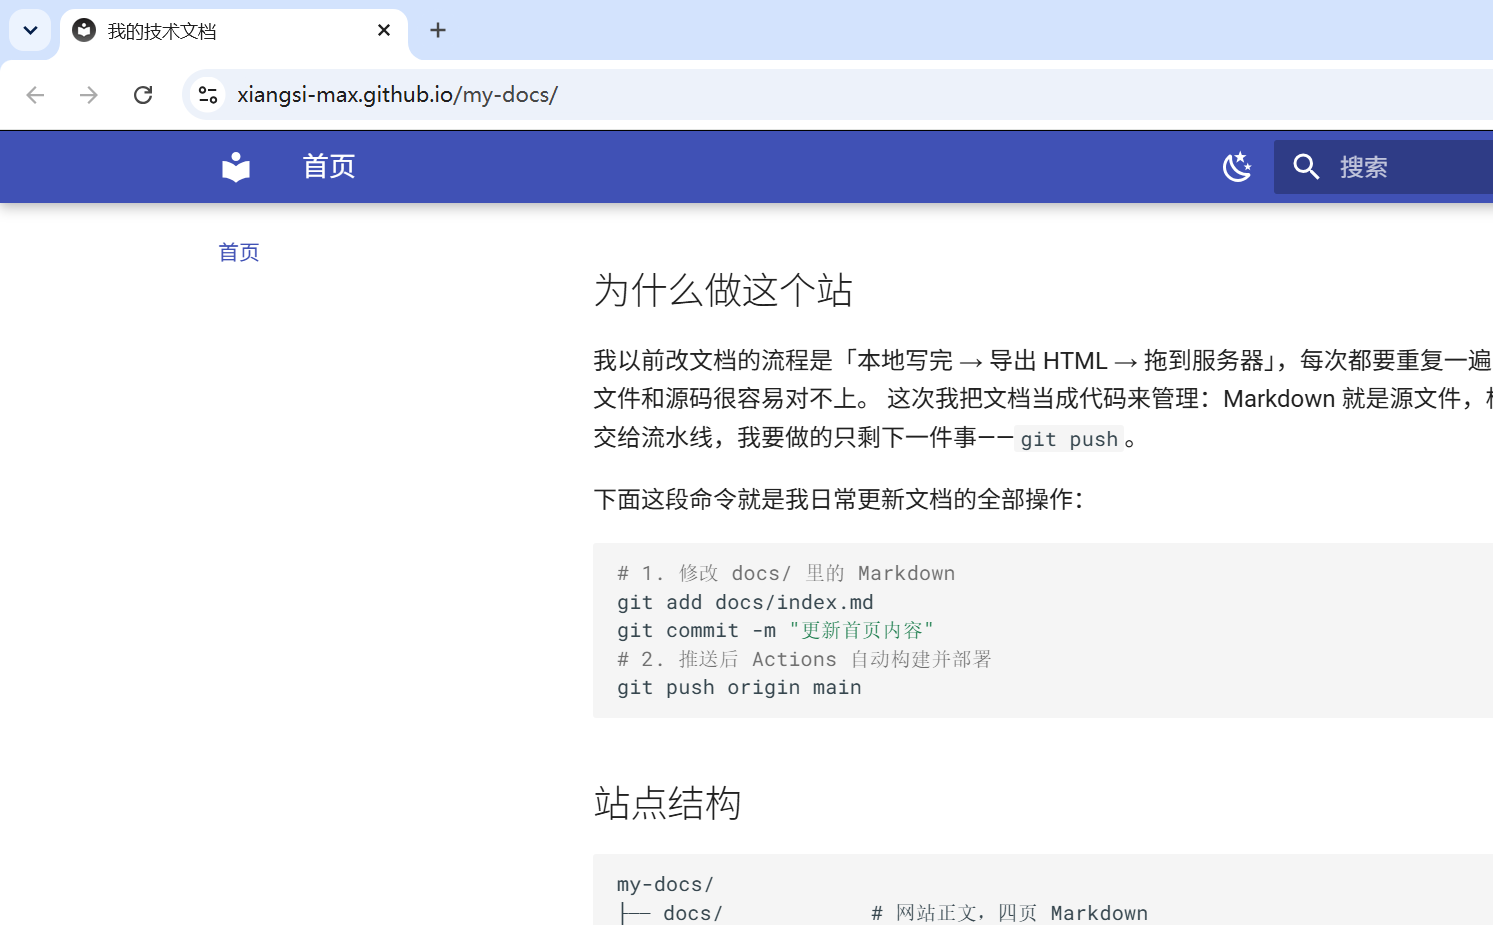
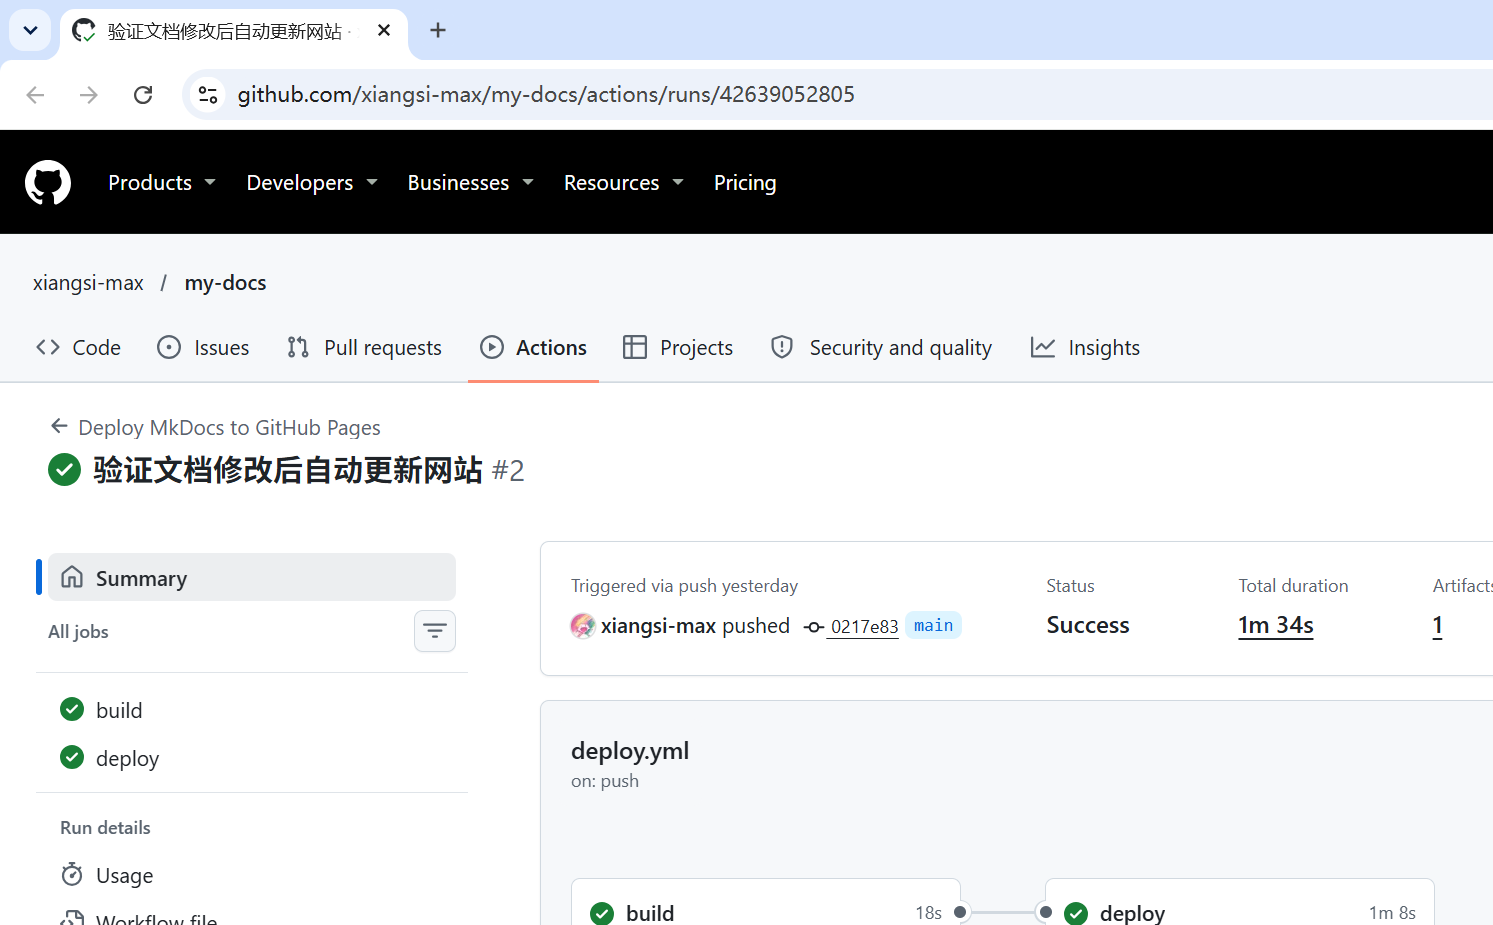
修正 2.7 截图与 2.10 数据

diff --git a/report/README.md b/report/README.md
@@ -217,7 +217,7 @@ push 后约 2 秒就开始跑了（14:53:13 创建，14:53:15 起 build），说
 | --- | --- | --- |
 | 所有示例账号、仓库地址均已替换 | `docs/api.md` 的 curl 示例还是 `https://example.com/...` | 换成 `https://xiangsi-max.github.io/my-docs/api/docs` |
 | 四页均有本人撰写的介绍与体会 | `guide.md`、`api.md` 全文一个"我"字都没有，是纯教程口吻 | 两页各补一节第一人称内容（见下） |
-| 四页两两互链 | 已在上一次推送补上 | — |
+| 仓库信息与报告描述一致 | 报告 2.1 节说"右侧 About 里填了站点地址"，但 `homepage` 字段实际是**空的** | 用 `gh api -X PATCH` 补上站点地址，同时把 2.1 节的描述改成与截图一致 |
 
 第一处是硬伤：`example.com` 是 RFC 2606 保留的示例域名，留着等于告诉老师"这段是抄来的模板"。
 
@@ -226,13 +226,15 @@ push 后约 2 秒就开始跑了（14:53:13 创建，14:53:15 起 build），说
 - `guide.md` 加了「我踩过的两个坑」：一是 Windows 虚拟环境是 `.venv/Scripts/` 而不是 `.venv/bin/`，干脆不激活直接调解释器；二是 `site_url` 带子路径导致预览时 `/` 返回 302、必须访问 `/my-docs/` 才有页面。这两条都是我在本次实践里真实撞上的，前面第 3 章也记了。
 - `api.md` 加了「我写这一页的思路」：为什么按"参数表 → 请求示例 → 返回示例 → 错误码"排列，以及错误码为什么必须给出处理建议而不只是含义。
 
+第三处是我的疏漏：写报告时凭印象写"About 里填了站点地址"，实际根本没填，`gh api repos/xiangsi-max/my-docs` 返回的 `homepage` 是空的。**报告里的一句描述和仓库实际状态不符，性质上等同于编造**，所以我把 `homepage` 补上让描述成立，而不是把描述删掉了事。
+
 补完后重新统计第一人称与体会类词汇：
 
 ```text
 index.md  我=7  体会类=1
 about.md  我=1  体会类=1
-guide.md  我=7  体会类=5
-api.md    我=5
+guide.md  我=7  体会类=3
+api.md    我=5  （另有「我写这一页的思路」一节）
 ```
 
 `mkdocs build --strict` 仍为 EXIT=0。
